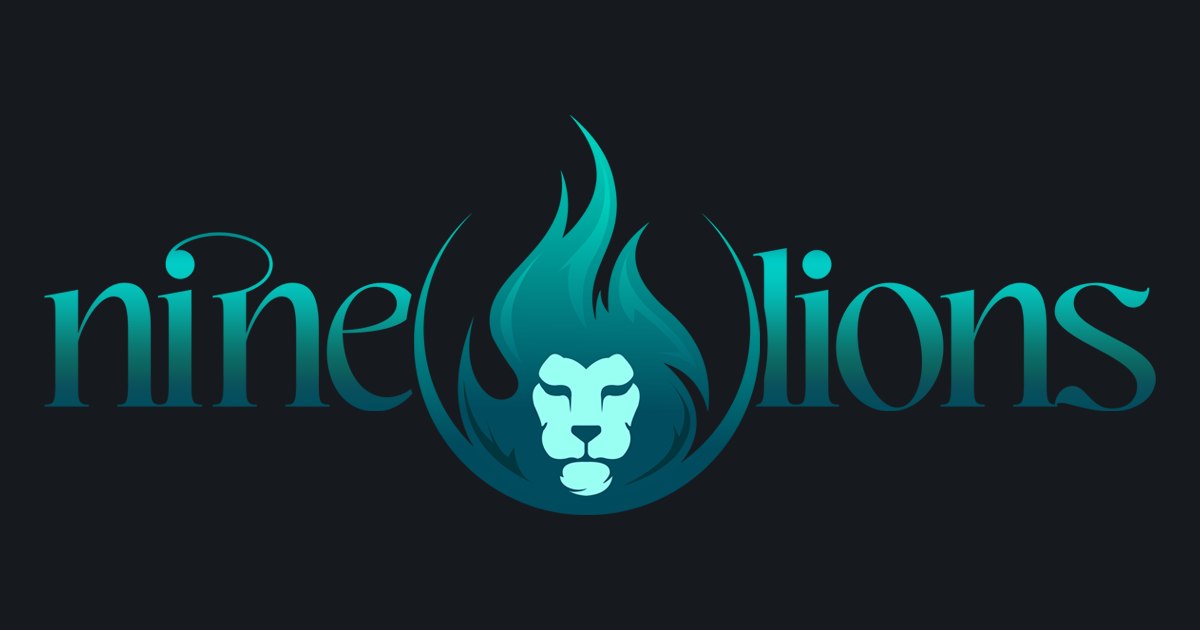
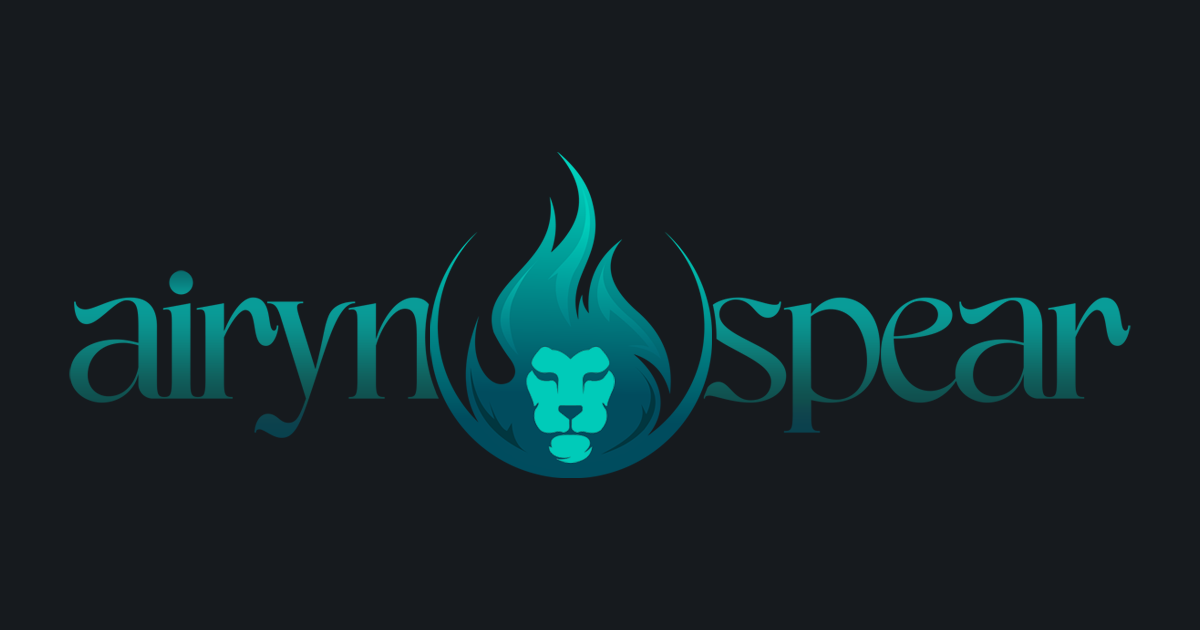
switch to airynspear, landing page updates

Changed region(s): [[0.0308, 0.181, 0.9867, 0.8143], [0.4008, 0.4222, 0.4317, 0.4825], [0.37, 0.3619, 0.4008, 0.3921]]

diff --git a/src/app/layout.tsx b/src/app/layout.tsx
@@ -20,24 +20,24 @@ const syne = Syne({
 });
 
 export const metadata: Metadata = {
-  title: "Nine Lions Design – Airyn Spear",
+  title: "Airyn Spear",
   description:
     "UI Engineer & Designer. Explore a portfolio of advanced web experiences, interactive UIs, and creative frontend engineering.",
   keywords:
     "UI engineer, frontend developer, web design, portfolio, Airyn Spear, React, Next.js, UX design",
-  authors: [{ name: "Airyn Spear", url: "https://ninelionsdesign.com" }],
+  authors: [{ name: "Airyn Spear", url: "https://airynspear.com" }],
   openGraph: {
-    title: "Nine Lions Design – Airyn Spear",
+    title: "Airyn Spear",
     description:
       "Explore Airyn Spear’s portfolio of creative engineering, immersive interfaces, and data-rich design.",
-    url: "https://ninelionsdesign.com",
-    siteName: "Nine Lions Design",
+    url: "https://airynspear.com",
+    siteName: "Airyn Spear",
     images: [
       {
         url: "/preview.png",
         width: 1200,
         height: 630,
-        alt: "Nine Lions Design Portfolio Preview",
+        alt: "Airyn Spear Portfolio Preview",
       },
     ],
     locale: "en_US",
@@ -45,7 +45,7 @@ export const metadata: Metadata = {
   },
   twitter: {
     card: "summary_large_image",
-    title: "Nine Lions Design – Airyn Spear",
+    title: "Airyn Spear",
     description:
       "Frontend Engineer & Designer – Explore immersive UIs and creative frontend projects.",
     images: ["/preview.png"],
@@ -64,8 +64,8 @@ export default function RootLayout({
       suppressHydrationWarning
     >
       <head>
-        <meta name="apple-mobile-web-app-title" content="Nine Lions" />
-        <meta name="application-name" content="Nine Lions" />
+        <meta name="apple-mobile-web-app-title" content="Airyn Spear" />
+        <meta name="application-name" content="Airyn Spear" />
         <meta name="viewport" content="width=device-width, initial-scale=1" />
         <meta name="format-detection" content="email=no" />
 
@@ -97,17 +97,28 @@ export default function RootLayout({
         <link
           rel="preload"
           as="image"
-          href="/images/portfolio/ninelions/ninelions-light.png"
+          href="/images/portfolio/peakmetrics/peakmetrics.png"
         />
         <link
           rel="preload"
           as="image"
-          href="/images/portfolio/peakmetrics/peakmetrics.png"
+          href="/images/portfolio/epicmix/epicmix.png"
         />
-        <link rel="preload" as="image" href="/images/portfolio/epicmix/epicmix.png" />
-        <link rel="preload" as="image" href="/images/portfolio/spotx/spotx.png" />
-        <link rel="preload" as="image" href="/images/portfolio/hwd/hwd-dark.png" />
-        <link rel="preload" as="image" href="/images/portfolio/bacardi/bacardi.png" />
+        <link
+          rel="preload"
+          as="image"
+          href="/images/portfolio/spotx/spotx.png"
+        />
+        <link
+          rel="preload"
+          as="image"
+          href="/images/portfolio/hwd/hwd-dark.png"
+        />
+        <link
+          rel="preload"
+          as="image"
+          href="/images/portfolio/bacardi/bacardi.png"
+        />
         <link
           rel="preload"
           as="image"

diff --git a/src/views/Home/cards.tsx b/src/views/Home/cards.tsx
@@ -6,30 +6,26 @@ import {
   SiGithub,
   SiD3Dotjs,
 } from "react-icons/si";
-import { BsRocket } from "react-icons/bs";
-import { FaRegObjectGroup, FaPeopleArrows } from "react-icons/fa";
+import { FaPeopleArrows } from "react-icons/fa";
 import { HexCard } from "@/views/HexView";
+import { BiLogoAdobe } from "react-icons/bi";
+import Image from "next/image";
 
 export const HOME_CARDS: HexCard[] = [
   {
-    icon: <FaRegObjectGroup />,
+    icon: <BiLogoAdobe />,
     keyword: "UX Design",
-    description: (
-      <>
-        {" "}
-        <span>Crafting intuitive</span> and elegant user experiences{" "}
-      </>
-    ),
+    description: "Designing intuitive UX with Adobe CS and Figma",
   },
   {
     icon: <SiReact />,
     keyword: "Frontend Development",
-    description: "Modern, responsive UI engineering with React & Next.js",
+    description: "Building responsive interfaces with React & Next.js",
   },
   {
     icon: <SiFigma />,
     keyword: "Prototyping",
-    description: "Bringing ideas to life fast with Figma & Storybook",
+    description: "Exploring ideas with Figma Make, v0 & Claude Design",
   },
   {
     icon: <SiOpenai />,
@@ -37,40 +33,33 @@ export const HOME_CARDS: HexCard[] = [
     description: (
       <>
         {" "}
-        <span>Leveraging AI</span> to accelerate development{" "}
+        <span>Codex</span> Claude, vO, Grok{" "}
       </>
     ),
   },
   {
-    icon: <SiMui />,
-    keyword: (
-      <>
-        {" "}
-        <span>Modern</span> Design Systems{" "}
-      </>
+    icon: (
+      <Image
+        src="/logos/design-engineer.png"
+        alt=""
+        width={643}
+        height={750}
+        style={{ width: "1.5em", height: "1.5em", objectFit: "contain" }}
+      />
     ),
-    description: (
-      <>
-        {" "}
-        <span>Creating scalable,</span> consistent UI systems using Stencil,
-        MUI, Tailwind, and custom web components.{" "}
-      </>
-    ),
+    keyword: "Design Engineer",
+    description:
+      "Blending design & code to bring intuitive digital experiences to life.",
   },
   {
     icon: <SiGithub />,
     keyword: "CI/CD",
-    description: "Automating workflows with GitHub Actions & CMS",
+    description: "Automating workflows with GitHub & Vercel",
   },
   {
-    icon: <BsRocket />,
-    keyword: "Performance",
-    description: (
-      <>
-        {" "}
-        <span>Optimizing speed</span> and accessibility across devices{" "}
-      </>
-    ),
+    icon: <SiMui />,
+    keyword: "Modern Design Systems",
+    description: "Creating scalable UI with Tailwind & Storybook.",
   },
   {
     icon: <SiD3Dotjs />,
@@ -85,11 +74,6 @@ export const HOME_CARDS: HexCard[] = [
   {
     icon: <FaPeopleArrows />,
     keyword: "Collaboration",
-    description: (
-      <>
-        {" "}
-        <span>Thriving in agile,</span> cross-functional environments{" "}
-      </>
-    ),
+    description: "Connecting design, engineering & product",
   },
 ];

diff --git a/src/components/Header/index.tsx b/src/components/Header/index.tsx
@@ -134,7 +134,7 @@ export default function Header() {
       <div className={styles.logoWrapper}>
         <Image
           src={coolLogo}
-          alt="Nine Lions Logo Dark"
+          alt="Airyn Spear Logo Dark"
           width={900}
           height={324}
           priority
@@ -144,7 +144,7 @@ export default function Header() {
         />
         <Image
           src="/logos/logo-heat-fill.png"
-          alt="Nine Lions Logo Light"
+          alt="Airyn Spear Logo Light"
           width={900}
           height={324}
           priority

diff --git a/src/views/HexView/HexView.module.scss b/src/views/HexView/HexView.module.scss
@@ -355,9 +355,21 @@
   height: 203px;
   .cardInner {
     .front {
+      .keyword {
+        font-size: 1rem;
+        min-height: 24px;
+      }
       .icon {
         font-size: 1.7rem;
       }
+    }
+  }
+  .back {
+    font-size: 0.8rem;
+    line-height: 1.1rem;
+    .icon {
+      font-size: 1.1rem;
+      margin-bottom: 0.5rem;
     }
   }
 }
@@ -371,7 +383,7 @@
   .cardInner {
     .front {
       .keyword {
-        font-size: 1.15rem;
+        font-size: 1rem;
         min-height: 24px;
       }
     }

diff --git a/src/views/Portfolio/index.tsx b/src/views/Portfolio/index.tsx
@@ -5,7 +5,7 @@ export default function PortfolioPage() {
     <main className={styles.contentContainer}>
       <div className={styles.content}>
         <h1>Portfolio</h1>
-        <p>This is the Portfolio page for Nine Lions.</p>
+        <p>This is the Portfolio page for Airyn Spear.</p>
       </div>
     </main>
   );

diff --git a/src/app/portfolio/page.tsx b/src/app/portfolio/page.tsx
@@ -4,7 +4,7 @@ export default function PortfolioPage() {
   return (
     <main className={styles.content}>
       <h1>Portfolio</h1>
-      <p>This is the Portfolio page for Nine Lions.</p>
+      <p>This is the Portfolio page for Airyn Spear.</p>
     </main>
   );
 }

diff --git a/src/app/connect/page.tsx b/src/app/connect/page.tsx
@@ -4,7 +4,7 @@ export default function ConnectPage() {
   return (
     <main className={styles.content}>
       <h1>Connect</h1>
-      <p>This is the Connect page for Nine Lions.</p>
+      <p>This is the Connect page for Airyn Spear.</p>
     </main>
   );
 }

diff --git a/src/views/Home/index.tsx b/src/views/Home/index.tsx
@@ -6,7 +6,7 @@ export default function HomeOverlay() {
   return (
     <div className={styles.overlay}>
       {/* <h1>Home</h1>
-      <p>Welcome to the Nine Lions homepage.</p> */}
+      <p>Welcome to the Airyn Spear homepage.</p> */}
     </div>
   );
 }

diff --git a/src/app/about/page.tsx b/src/app/about/page.tsx
@@ -4,7 +4,7 @@ export default function AboutPage() {
   return (
     <main className={styles.content}>
       <h1>About</h1>
-      <p>This is the About page for Nine Lions.</p>
+      <p>This is the About page for Airyn Spear.</p>
     </main>
   );
 }
